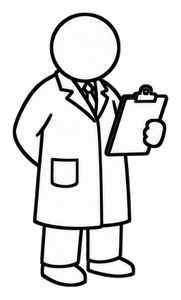
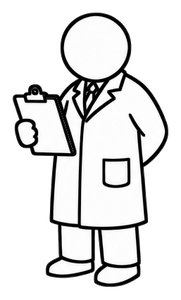
Make every enemy face left, toward the hero
The cut script now mirrors per drawing instead of per sheet. The inspector on
the bugs sheet already looked left, so mirroring the whole sheet turned it
around; the reckoner looked right and was never mirrored.

Changed region(s): [[0.0552, 0.03, 0.9392, 0.96]]

diff --git a/tools/cut_sheets.py b/tools/cut_sheets.py
@@ -64,8 +64,9 @@ SHEETS_SPEC = [
     ]),
 ]
 
-# Vellen waarop de figuren naar rechts kijken: gespiegeld, zodat ze de held aankijken.
-FLIP = {"bugs"}
+# Figuren die op hun vel naar rechts kijken: gespiegeld, zodat ze vanaf rechts de held aankijken.
+# Per tekening, niet per vel: de inspecteur op het bugs-vel keek al naar links.
+FLIP = {"level-256", "flight-501", "the-index", "reckoner"}
 
 FILL = 12          # tot dit kanaalverschil met de achtergrond is een pixel achtergrond
 SOFT = (12, 60)    # zachte rand daarboven
@@ -151,7 +152,7 @@ def main() -> None:
             if not mask.any():
                 raise ValueError(f"{prefix}: vakje {name} is leeg")
             img = fit(thicken(crop(rgb, alpha, mask, shape), line), size)
-            if prefix in FLIP:
+            if name in FLIP:
                 img = img.transpose(Image.Transpose.FLIP_LEFT_RIGHT)
             img.save(target / f"{name}.png", optimize=True)
         print(f"{folder}: {len(names)} uit {sheet_path.name}")
